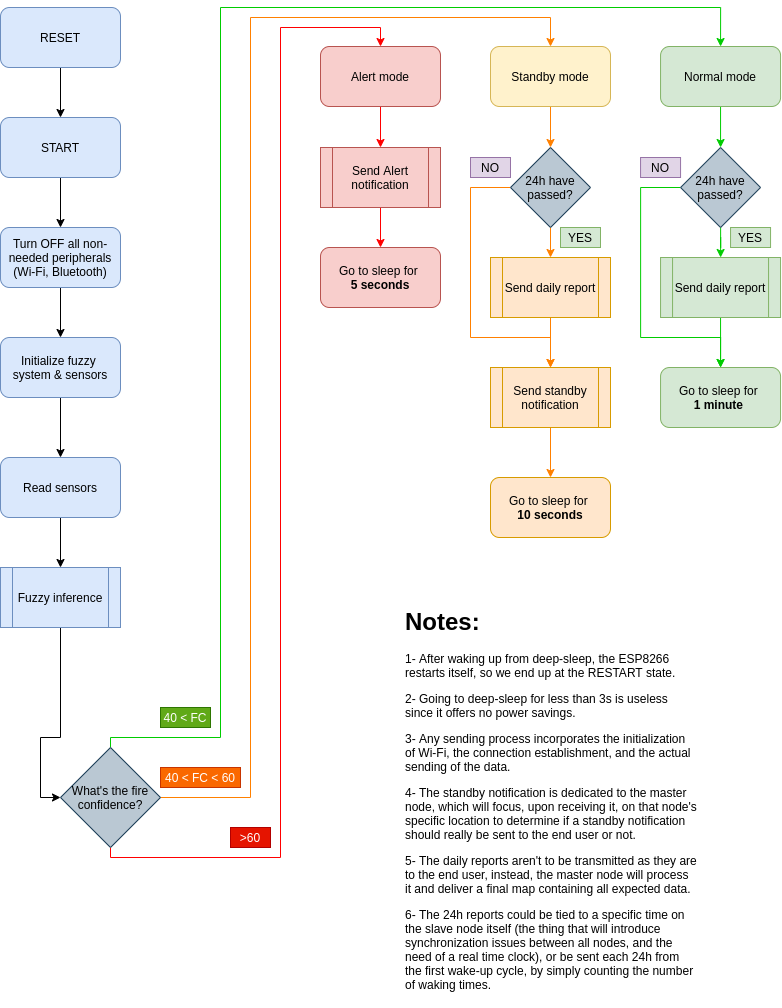
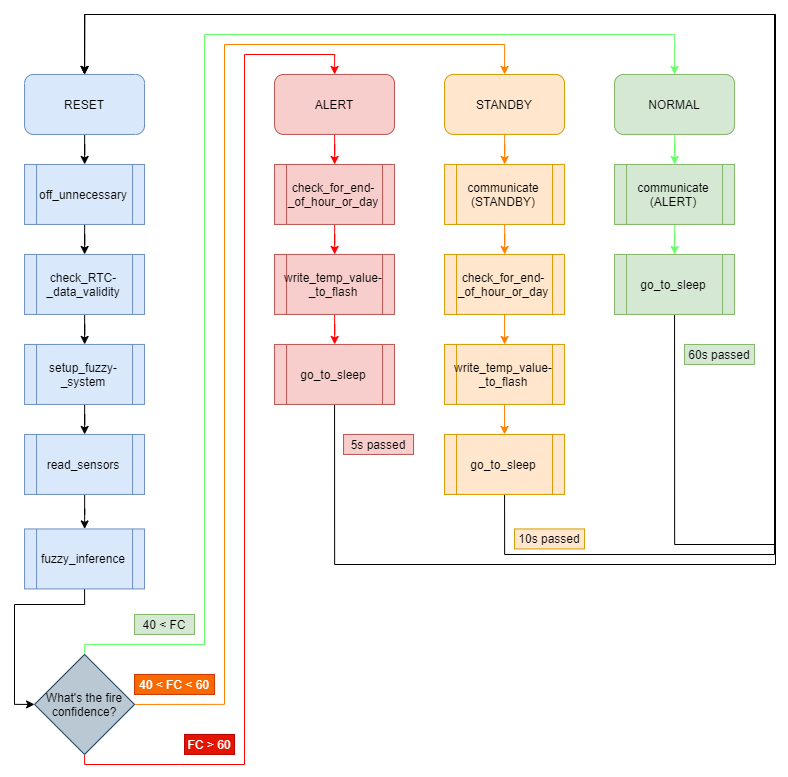
Updated the working diagram, and polished the README

diff --git a/README.md b/README.md
@@ -1,16 +1,23 @@
 # Fuzzy_Fire_Detection
-My end of year project_ Not done yet !
 
 ## Preview
 
-The goal of this project is to create an IoT node that's meant to be part of a mesh network of other similar nodes, in order to create a real-time fire propagation tracking system that would help firefighters and land owners to be safe, be effecient in fighting the fire, and be fast to act.
+This is an ULP (Ultra Low Power) IoT node created mainly for remote areas monitoring (hence the need for ULP capabilities, especially that an energy harvesting powering system is being concieved for it).
 
-The implemented fuzzy system is studied and designed in this paper: https://doi.org/10.1016/j.adhoc.2011.06.008, I just understood the system and implemented it! **I claim no ownership over the actual design of the system, neither do I guarantee the effictiveness of my implemented solution**.
+The initial goal was to focus on the end-node and create a strong yet ULP fire detection IoT node, then build our way up and configure it in a mesh network (not researched yet) or a star network where there's a master node that's always awake and all the rest slave nodes would be reporting to it. 
 
-This code is meant to be embedded into an IoT node, that's supposed to end up being a **fire detection & alarming system, powered with energy harvesting techniques**. 
+We wanted to create a real-time fire propagation tracking system that would help firefighters and land owners to be safe, be effecient in fighting the fire, and be fast to act.
 
-This code isn't final, and will be edited over the next period, changes are to be expected.
+Now as we finished the end node, we noticed that it could be a standalone fire detection IoT node that, with minimal configurations, could be employed anywhere. 
+
+The implemented fuzzy system is studied and designed in this paper: https://doi.org/10.1016/j.adhoc.2011.06.008, I just understood the system and implemented it! **I claim no ownership over the actual design of the system, neither do I guarantee the effictiveness of my implemented solution**. 
+
+We added a temperature logging functionality that provides a daily temperatue report based on an edge computing technique in order to save energy furthermore. The temperature data that's gathered during the day is parsed and turned into a per-hour based report where each day the **max**, **min**, and **mean** temperatures of each hour are computed and sent in the format: 
+
+{H0:[mx=MAX_VALUE,mi=MIN_VALUE,mn=MEAN_VALUE],H1, .. ,H23:[mx=MAX_VALUE,mi=MIN_VALUE,mn=MEAN_VALUE]}
 
 ## Initial code structure
 
 <img src="Images/Fuzzy_Fire_Detection.png">
+
+Changes are to be expected in the code (maybe additional functionalities, the already implemented ones are good to go), as well as some power testing, documentation, and demos/examples.
